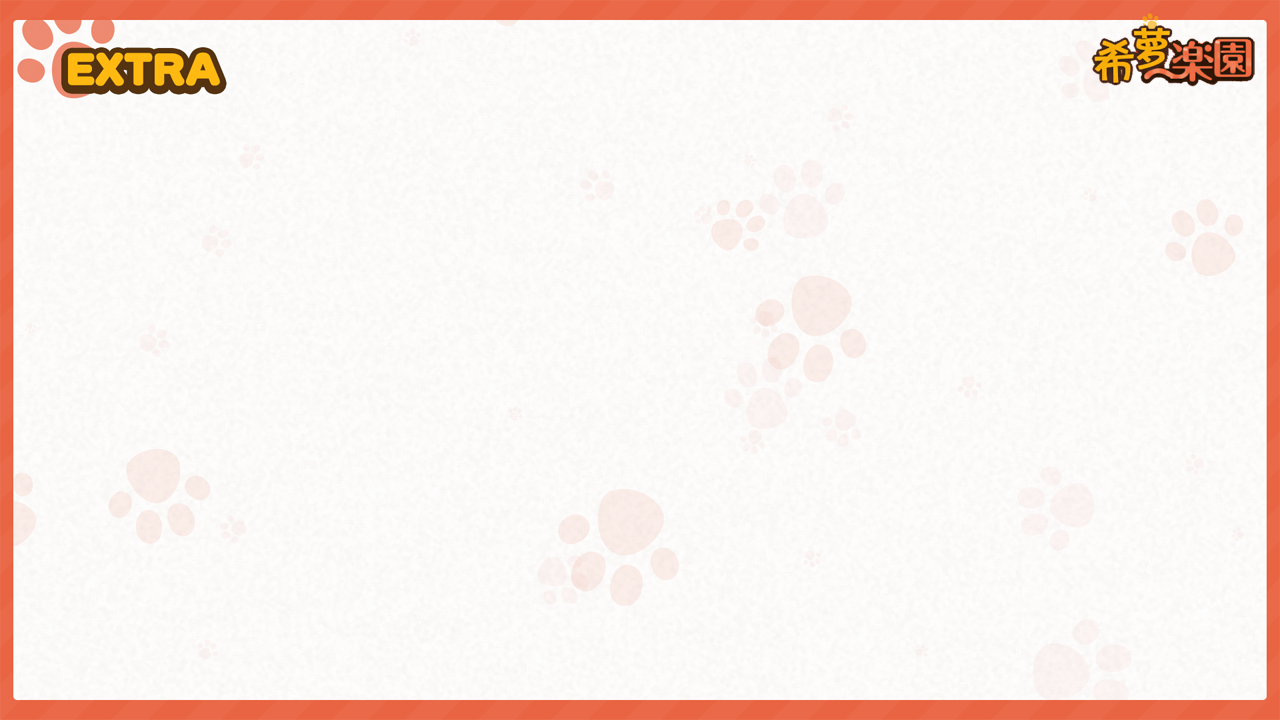
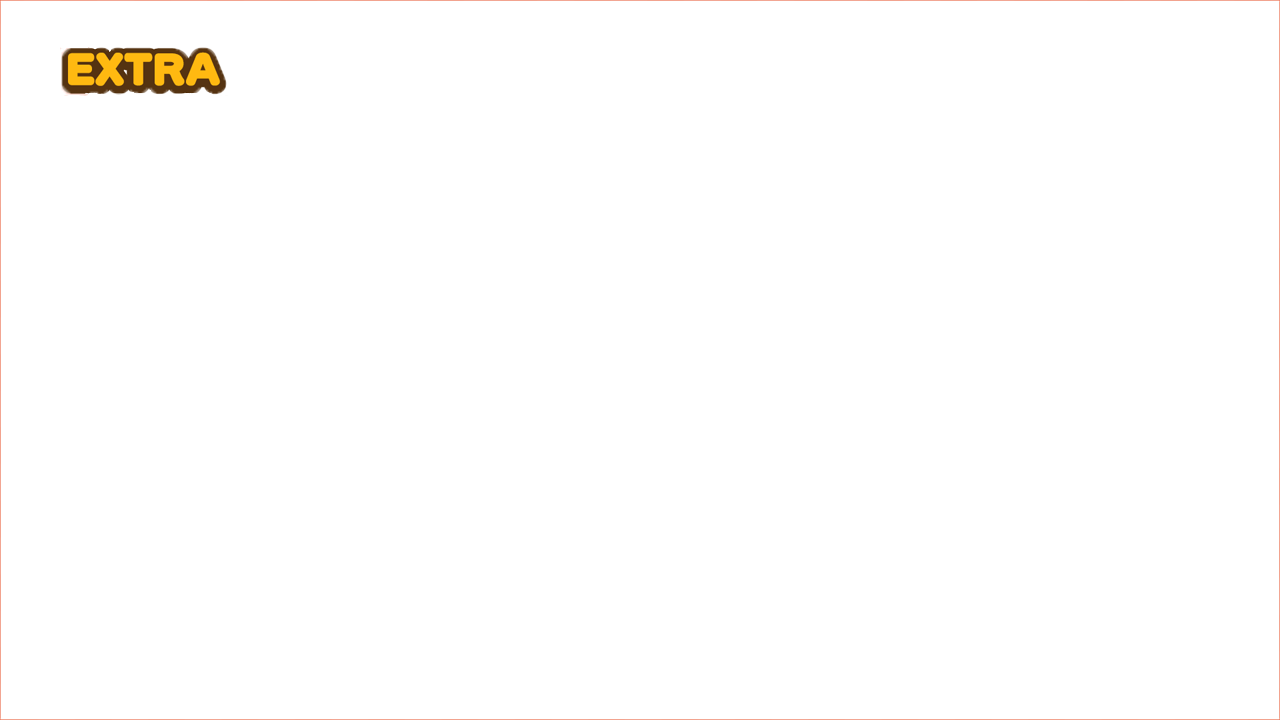
feat: 增加加载页

diff --git a/src/components/Preload.vue b/src/components/Preload.vue
@@ -1,20 +1,38 @@
 <template>
   <div style="display:none">
-    <img v-for="(url, key) in list" :key="key" :src="url" />
+    <img v-for="(url, key) in list" :key="key" :src="url" @load="setReady" />
+  </div>
+  <div class="loading" v-if="isShow">
+    <img class="img" :src="bg" />
+    <div class="text">
+      <div class="line-1" v-if="!ready">预加载中</div>
+      <div class="line-2" v-if="!ready">({{ loadedNum }}/{{ list.length }})</div>
+      <div class="line-1" v-else>加载完成了</div>
+      <div class="line-2" v-if="!ready">(其实跳过也行)</div>
+    </div>
+    <div class="btn" @click="start">开始涩猫</div>
+    <div class="tip">(界面有点丑，先用着)</div>
   </div>
 </template>
 
 <script setup>
-import { ref } from 'vue'
+import { computed, ref } from 'vue'
 
+const emit = defineEmits(['start'])
+
+const isShow = ref(true)
 const list = ref([])
+const loadedNum = ref(0)
+const ready = computed(() => loadedNum.value >= list.value.length)
+
+const bg = process.env.NODE_ENV === 'development' ? require('@/assets/images/bg.png') : 'https://cdn.jsdelivr.net/gh/blacktunes/hiiropara@master/src/assets/images/bg.png'
 
 const temp = require.context('@/assets/images', false, /.png$/i).keys().map(item => {
   return item.substring(2)
 })
 
 temp.forEach(item => {
-  if (['title_bg.png', 'brandlogo.png'].includes(item.toLocaleLowerCase())) return
+  if (['bg.png'].includes(item.toLocaleLowerCase())) return
 
   if (['extra_bg.png'].includes(item.toLocaleLowerCase())) {
     list.value.push(process.env.NODE_ENV === 'development' ? require(`@/assets/images/${item}`) : `https://cdn.jsdelivr.net/gh/blacktunes/hiiropara@master/src/assets/images/${item}`)
@@ -22,4 +40,64 @@ temp.forEach(item => {
     list.value.push(require('@/assets/images/' + item))
   }
 })
+
+const setReady = () => {
+  ++loadedNum.value
+}
+
+const start = () => {
+  isShow.value = false
+  emit('start')
+}
 </script>
+
+<style lang="stylus" scoped>
+@import '@/assets/style/fn.styl'
+
+.loading
+  position relative
+  width 100%
+  height 100%
+
+  .img
+    margin auto
+    width 100%
+    height 100%
+
+  .text
+    position absolute
+    left 50%
+    top 30%
+    transform translateX(-50%)
+    font-size 36px
+    text-align center
+
+    .line-2
+      font-size 24px
+
+  .btn
+    position absolute
+    left 50%
+    bottom 30%
+    transform translateX(-50%)
+    font-size 24px
+    text-align center
+    padding 15px 20px
+    border-radius 10px
+    background #662211
+    color #fff
+    pointer()
+
+    &:hover
+      background #cc6644
+
+    &:active
+      background #ffb911
+
+  .tip
+    position absolute
+    left 50%
+    bottom 20px
+    transform translateX(-50%)
+    font-size 16px
+</style>

diff --git a/src/components/Logo.vue b/src/components/Logo.vue
@@ -1,5 +1,5 @@
 <template>
-  <transition name="fade" appear @before-appear="play" @after-leave="end">
+  <transition name="fade" @after-enter="play" @after-leave="end">
     <div class="logo" v-if="isShow">
       <img class="img" :src="logo" />
     </div>
@@ -10,11 +10,15 @@
 import { ref } from 'vue'
 
 const emit = defineEmits(['end'])
-const isShow = ref(true)
+const isShow = ref(false)
 
 const logo = process.env.NODE_ENV === 'development' ? require('@/assets/images/brandlogo.png') : 'https://cdn.jsdelivr.net/gh/blacktunes/hiiropara@master/src/assets/images/brandlogo.png'
 
 const 喵 = new Audio(process.env.NODE_ENV === 'development' ? require('@/assets/voices/喵.mp3') : 'https://cdn.jsdelivr.net/gh/blacktunes/hiiropara@master/src/assets/voices/喵.mp3')
+
+const show = () => {
+  isShow.value = true
+}
 
 const play = () => {
   喵.play()
@@ -22,8 +26,11 @@ const play = () => {
 }
 
 const end = () => {
+  console.log(1)
   emit('end')
 }
+
+defineExpose({ show })
 </script>
 
 <style lang="stylus" scoped>
@@ -35,5 +42,5 @@ const end = () => {
 
 .fade-leave-active
   transition opacity 0.6s
-  transition-delay 2s
+  transition-delay 1s
 </style>

diff --git a/src/App.vue b/src/App.vue
@@ -1,8 +1,8 @@
 <template>
-  <Preload />
   <div class="main" :style="{ width, height }">
     <div class="wrapper" :style="{ transform: `scale(${scale})` }">
-      <Logo @end="showTitle" />
+      <Preload @start="start" />
+      <Logo ref="logoRef" @end="showTitle" />
       <Title ref="titleRef" @end="titleEnd" />
       <Message ref="messageRef" @exit="messageExit" @end="showTitle" />
       <Extra ref="extraRef" @end="showTitle" />
@@ -33,9 +33,14 @@ window.onresize = () => {
   setSize()
 }
 
+const logoRef = ref(null)
 const titleRef = ref(null)
 const messageRef = ref(null)
 const extraRef = ref(null)
+
+const start = () => {
+  logoRef.value.show()
+}
 
 const messageExit = () => {
   messageRef.value.hide()
